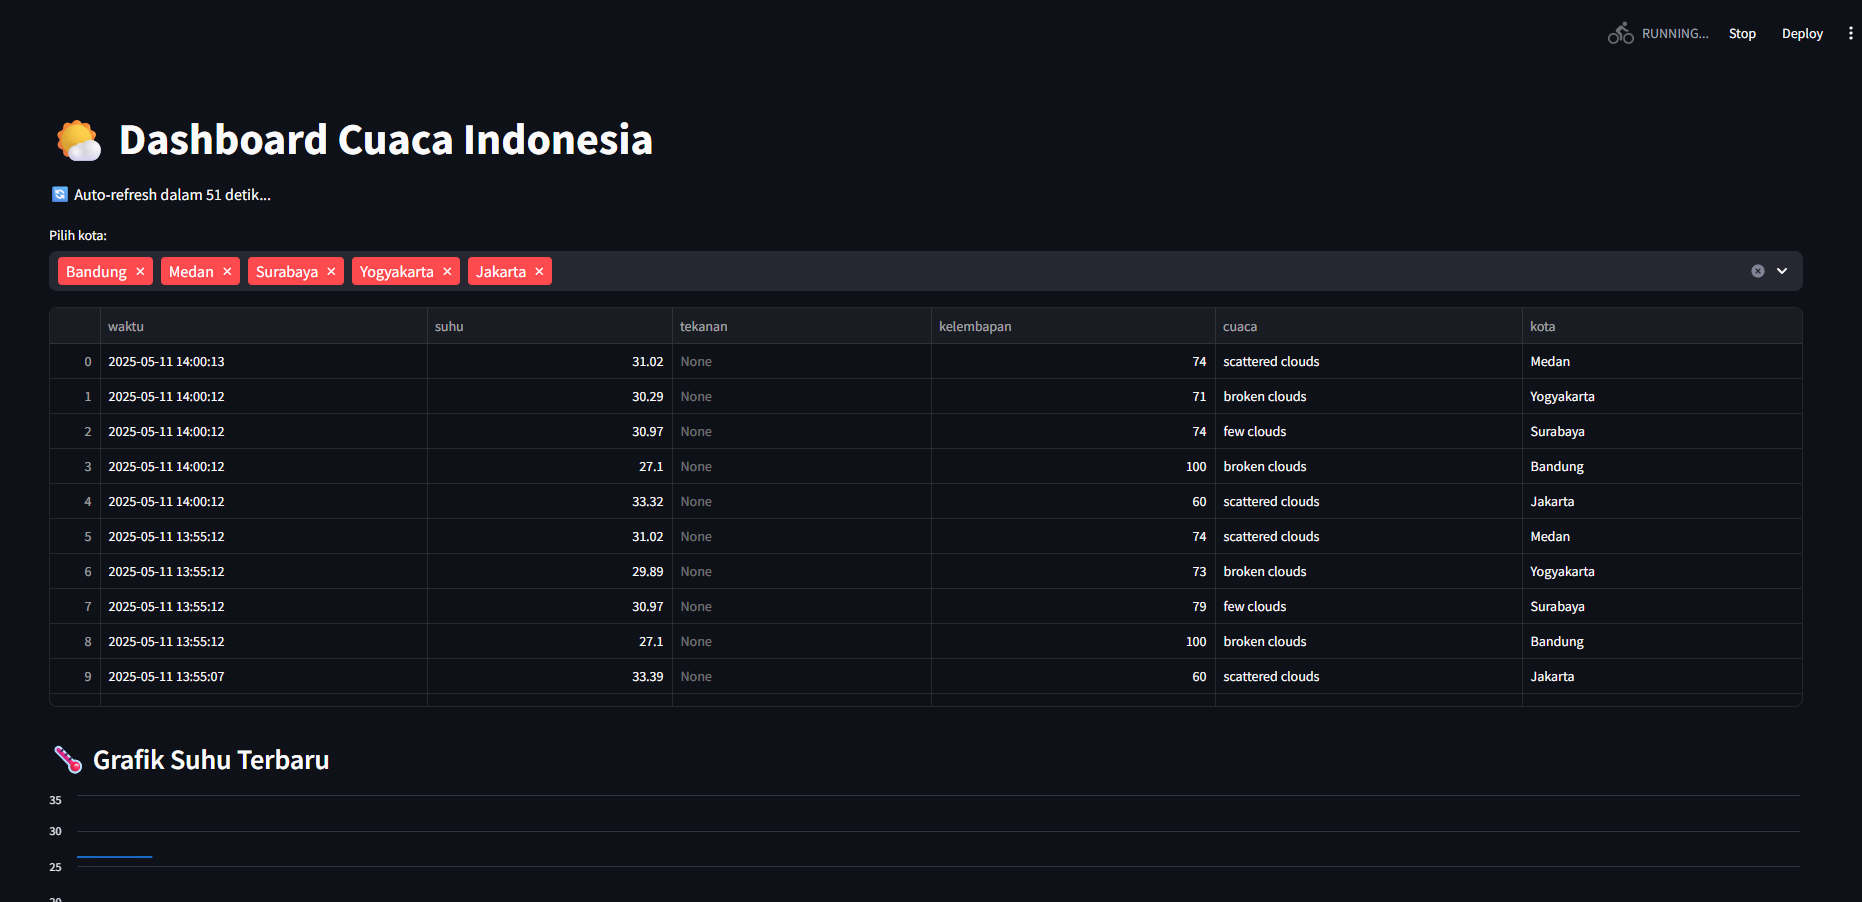
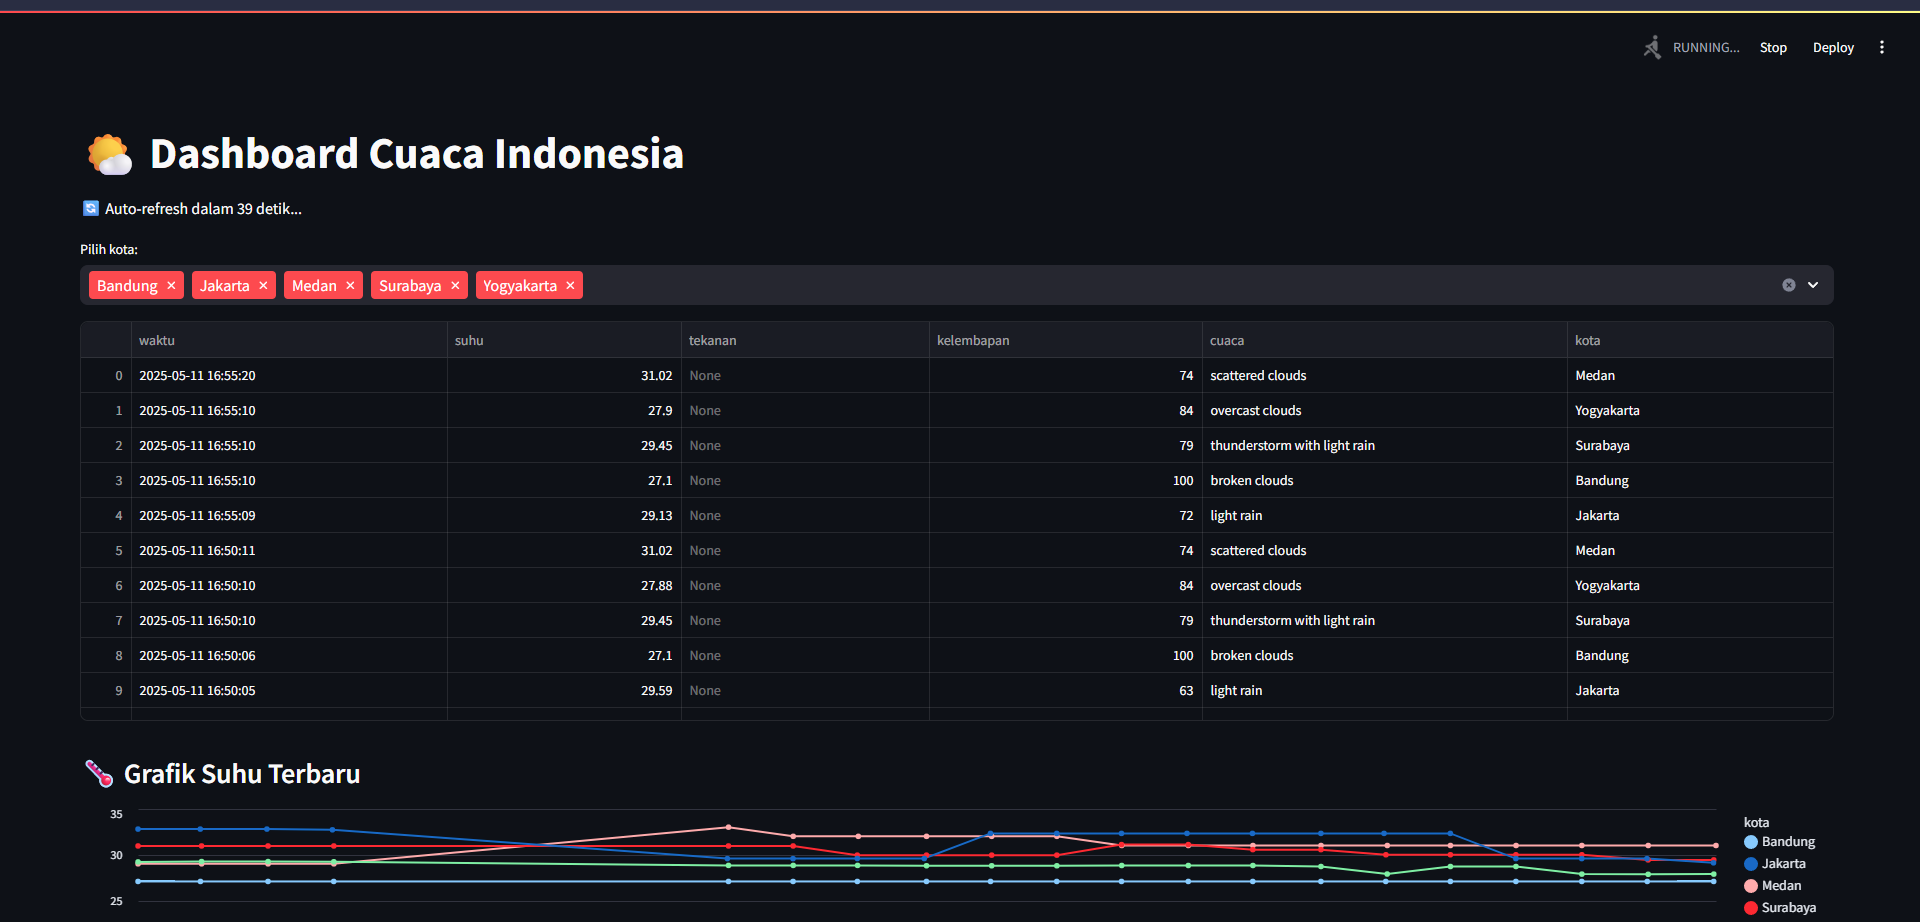
🎨 Update grafik dengan Altair dan tampilkan semua kota

diff --git a/dashboard/app.py b/dashboard/app.py
@@ -1,9 +1,10 @@
 import streamlit as st
 import pandas as pd
+import altair as alt
 from sqlalchemy import create_engine
 import time
 
-# Konfigurasi database PostgreSQL
+# --- Konfigurasi koneksi database PostgreSQL ---
 DB_CONFIG = {
     "host": "localhost",
     "dbname": "cuaca_db",
@@ -11,65 +12,101 @@ DB_CONFIG = {
     "password": "cuaca_pass"
 }
 
-# Buat engine koneksi menggunakan SQLAlchemy
+# Buat URL koneksi SQLAlchemy
 db_url = f"postgresql://{DB_CONFIG['user']}:{DB_CONFIG['password']}@{DB_CONFIG['host']}/{DB_CONFIG['dbname']}"
 engine = create_engine(db_url)
 
-# Konfigurasi tampilan halaman
+# --- Konfigurasi halaman Streamlit ---
 st.set_page_config(page_title="Dashboard Cuaca", layout="wide")
 st.title("🌤 Dashboard Cuaca Indonesia")
 
-# Interval refresh dalam detik
+# Interval refresh otomatis (detik)
 REFRESH_INTERVAL = 60
-countdown = st.empty()
+countdown = st.empty()  # Untuk menampilkan hitung mundur
 
-# Fungsi ambil data terbaru dari database
+# --- Fungsi ambil data dari database (dengan cache & TTL) ---
 @st.cache_data(ttl=REFRESH_INTERVAL)
 def load_data():
     query = "SELECT * FROM cuaca ORDER BY waktu DESC LIMIT 500"
     df = pd.read_sql(query, engine)
     return df
 
-# Load data
+# Ambil data
 data = load_data()
 
+# --- Jika data tidak tersedia ---
 if data.empty:
     st.warning("Data belum tersedia.")
 else:
-    # Pilih kota
+    # --- Pilihan kota dinamis ---
     kota_terpilih = st.multiselect(
         "Pilih kota:",
         options=sorted(data['kota'].unique()),
         default=sorted(data['kota'].unique())
     )
 
-    # Filter berdasarkan kota
+    # Filter data berdasarkan kota yang dipilih
     data_filtered = data[data['kota'].isin(kota_terpilih)]
 
-    # Tampilkan tabel data
+    # Tampilkan tabel data mentah
     st.dataframe(data_filtered, use_container_width=True)
 
-    # Urutkan berdasarkan waktu
+    # Urutkan data berdasarkan waktu naik (penting untuk grafik)
     sorted_data = data_filtered.sort_values("waktu")
 
-    # Grafik Suhu Terbaru
+    # --- Grafik Suhu per Kota (Altair) ---
     st.subheader("🌡 Grafik Suhu Terbaru")
-    chart_suhu = sorted_data.groupby("kota").head(10)
-    st.line_chart(chart_suhu.pivot(index="waktu", columns="kota", values="suhu"))
+    chart_suhu = (
+        sorted_data.sort_values("waktu", ascending=False)
+        .groupby("kota", group_keys=False)
+        .head(20)
+        .sort_values("waktu")
+    )
 
-    # Grafik Kelembapan Terbaru
+    suhu_chart = alt.Chart(chart_suhu).mark_line(point=True).encode(
+        x=alt.X("waktu:T", title="Waktu"),
+        y=alt.Y("suhu:Q", title="Suhu (°C)"),
+        color="kota:N",
+        tooltip=["waktu:T", "kota:N", "suhu:Q"]
+    ).properties(width="container", height=300)
+
+    st.altair_chart(suhu_chart, use_container_width=True)
+
+    # --- Grafik Kelembapan per Kota (Altair) ---
     st.subheader("💧 Grafik Kelembapan Terbaru")
-    chart_kelembapan = sorted_data.groupby("kota").head(10)
-    st.line_chart(chart_kelembapan.pivot(index="waktu", columns="kota", values="kelembapan"))
+    chart_kelembapan = (
+        sorted_data.sort_values("waktu", ascending=False)
+        .groupby("kota", group_keys=False)
+        .head(20)
+        .sort_values("waktu")
+    )
 
-    # Grafik Rata-Rata Suhu Harian
+    kelembapan_chart = alt.Chart(chart_kelembapan).mark_line(point=True).encode(
+        x=alt.X("waktu:T", title="Waktu"),
+        y=alt.Y("kelembapan:Q", title="Kelembapan (%)"),
+        color="kota:N",
+        tooltip=["waktu:T", "kota:N", "kelembapan:Q"]
+    ).properties(width="container", height=300)
+
+    st.altair_chart(kelembapan_chart, use_container_width=True)
+
+    # --- Grafik Rata-Rata Suhu Harian ---
     st.subheader("📈 Rata-Rata Suhu Harian per Kota")
     daily_avg = sorted_data.copy()
     daily_avg['tanggal'] = pd.to_datetime(daily_avg['waktu']).dt.date
-    avg_per_day = daily_avg.groupby(['tanggal', 'kota'])['suhu'].mean().reset_index()
-    st.line_chart(avg_per_day.pivot(index="tanggal", columns="kota", values="suhu"))
 
-# Auto-refresh countdown
+    avg_per_day = daily_avg.groupby(['tanggal', 'kota'])['suhu'].mean().reset_index()
+
+    rata2_chart = alt.Chart(avg_per_day).mark_line(point=True).encode(
+        x=alt.X("tanggal:T", title="Tanggal"),
+        y=alt.Y("suhu:Q", title="Rata-rata Suhu (°C)"),
+        color="kota:N",
+        tooltip=["tanggal:T", "kota:N", "suhu:Q"]
+    ).properties(width="container", height=300)
+
+    st.altair_chart(rata2_chart, use_container_width=True)
+
+# --- Hitung mundur untuk auto-refresh ---
 with st.empty():
     for i in range(REFRESH_INTERVAL, 0, -1):
         countdown.markdown(f"🔄 Auto-refresh dalam {i} detik...")
